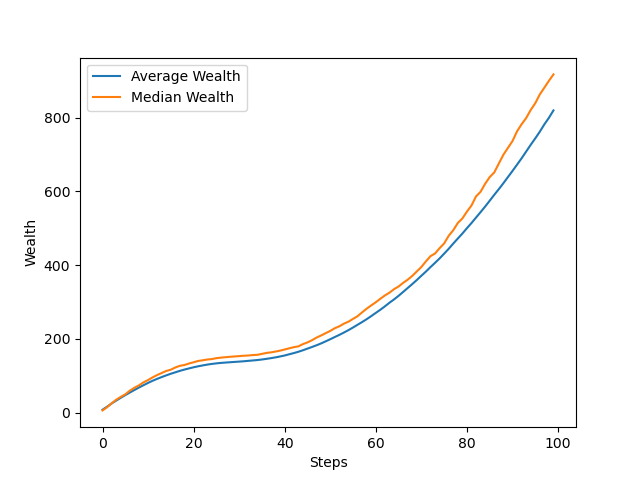
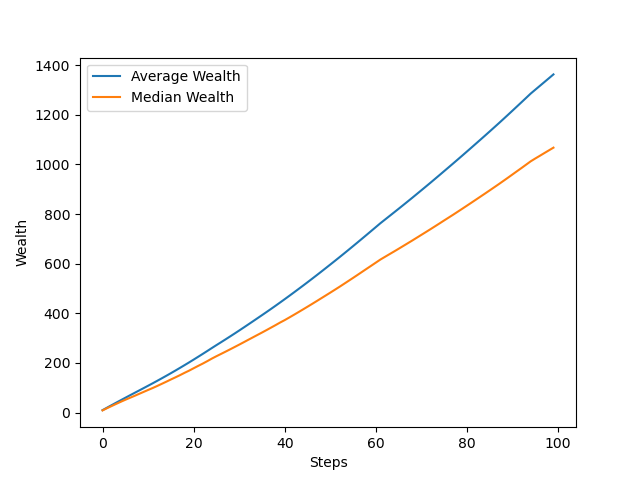
4つのグラフをプロットし，BIのありなしでいろいろな要素を比較できるようにしました．

diff --git a/MAS_K.py b/MAS_K.py
@@ -4,6 +4,7 @@ from mesa import Agent, Model
 from mesa.time import RandomActivation
 from mesa.datacollection import DataCollector
 import matplotlib.pyplot as plt
+import pandas as pd
 
 class Worker:
     def __init__(self, production_capacity, firm):
@@ -19,9 +20,9 @@ class HouseholdAgent(Agent):
         
         self.total_population = random.randint(1, 5)  # 1から5人の世帯人数
         
-        self.num_of_workers = random.randint(0, min(2 , self.total_population))  # 労働者の人数
+        self.num_of_workers = random.randint(1, min(2 , self.total_population))  # 労働者の人数
         if self.total_population - self.num_of_workers > 0:
-            self.num_of_non_workers = random.randint(0, self.total_population - self.num_of_workers)  # 非労働者の人数
+            self.num_of_non_workers = random.randint(0, self.total_population - self.num_of_workers)  # 非労働者の人数．ここでは子ども
         else:
             self.num_of_non_workers = 0
         self.num_of_retirees = self.total_population - self.num_of_workers - self.num_of_non_workers  # 残りは年金受給者
@@ -53,8 +54,13 @@ class HouseholdAgent(Agent):
 
     def should_consider_job_change(self, worker):
         # 自身の生産能力が3以上であれば、20%の確率で転職を考慮
-        if worker.production_capacity >= 3 and random.random() <= 0.2:
+        if worker.production_capacity == 5 and random.random() <= 0.3:
             return True
+        if worker.production_capacity == 4 and random.random() <= 0.1:
+            return True
+        if worker.production_capacity == 3 and random.random() <= 0.05:
+            return True
+        
         else:
             return False
 
@@ -70,6 +76,7 @@ class HouseholdAgent(Agent):
         for worker in self.workers:
             if worker.employed:  # 労働者が現在雇用されている場合
                 if self.should_consider_job_change(worker):
+                    # print(worker.production_capacity)
                     new_firm = self.find_higher_paying_job(worker)
                     if new_firm is not None and new_firm != worker.firm:
                         worker.firm.fire(worker)  # 以前の雇用者から離職
@@ -83,26 +90,56 @@ class HouseholdAgent(Agent):
                     if new_firm is not None:
                         worker.firm = new_firm  # 新しい雇用者に就職
                         worker.employed = True  # 雇用状態を更新
-                        
+    
+    def calculate_wage_tax(self, wage):
+        if wage < 10:
+            tax_rate = 0.1
+        elif wage < 30:
+            tax_rate = 0.2
+        elif wage < 50:
+            tax_rate = 0.3
+        elif wage < 70:
+            tax_rate = 0.4
+        elif wage < 90:
+            tax_rate = 0.5
+        else:
+            tax_rate = 0.6
+        return wage * tax_rate 
+
+    def calculate_disposable_income(self): #可処分所得=合計賃金-税金
+        income_from_wages = 0
+        total_wage_tax = 0
+        for worker in self.workers:
+            if worker.firm is not None:
+                wage = worker.firm.wage
+                wage_tax = self.calculate_wage_tax(wage)
+                income_from_wages += (wage - wage_tax)
+                total_wage_tax += wage_tax
+        self.disposable_income = income_from_wages
+        # 税金を政府に納付
+        self.model.government.collect_wage_tax(total_wage_tax)
+        
+
 
                     
     # 収入の計算：労働者が働いている企業からの賃金、年金、政府からの社会保障の合計
     def calculate_income(self):
         # 働いている労働者からの賃金の合計
-        income_from_wages = sum(worker.firm.wage for worker in self.workers if worker.firm is not None)
+        # income_from_wages = sum(worker.firm.wage for worker in self.workers if worker.firm is not None)
         income_from_pensions = self.model.government.pensions(self.num_of_retirees) # 年金受給者からの年金
         income_from_child_allowance = self.model.government.child_allowance(self.num_of_non_workers)  # 児童手当
         income_from_unemployment_allowance = self.model.government.unemployment_allowance(sum(1 for worker in self.workers if worker.firm is None))  # 失業手当
         income_from_BI = self.model.government.BI(self.total_population)  # BI
         
-        self.income = income_from_wages + income_from_pensions + income_from_child_allowance + income_from_unemployment_allowance + income_from_BI  # 合計収入
+        self.income = self.disposable_income + income_from_pensions + income_from_child_allowance + income_from_unemployment_allowance + income_from_BI  # 合計収入
     
     def step(self):
         self.consider_job_change()
+        self.calculate_disposable_income()
         self.calculate_income()
-        self.disposable_income = self.income - self.model.government.collect_taxes_house(self.income) #可処分所得=収入-税金
-        self.consumption = self.disposable_income * random.uniform(0, 0.8)  # 可処分所得は80%以下を消費
-        self.savings += self.disposable_income - self.consumption
+        # self.disposable_income = self.income - self.model.government.collect_taxes_house(self.income) #可処分所得=収入-税金
+        self.consumption = self.income * 0.7 #random.uniform(0.3, 0.8)  # 収入は80%以下を消費
+        self.savings += self.income - self.consumption
         # self.savings += self.model.bank.deposit(self.savings)
         # print(self.savings)
 
@@ -121,7 +158,7 @@ class FirmAgent(Agent):
         self.profit = 0  # 利益
         self.deficit_period = 0  # 連続赤字期間
         self.hire_workers = []  # 雇用中の労働者リスト
-        self.wage = 30  # 初期賃金
+        self.wage = random.randint(20, 50) # 初期賃金
         self.debt = 0 #借金
         calculate_capacity = 0 #会社の生産能力
         self.job_openings = 0  # 追加：求人公開数：ここでは不足している生産能力
@@ -178,7 +215,10 @@ class FirmAgent(Agent):
     def set_wage(self):
         # 賃金を企業の利益に応じて調整する
         if self.profit > 0 and self.capital > 0 :
-            self.wage += 1
+            if random.random() <= 0.5:
+                self.wage += 1
+            
+            
         else:
             self.wage -= 1 if self.wage > 1 else 0  # 賃金は1以上
 
@@ -225,14 +265,15 @@ class FirmAgent(Agent):
 
         self.sales -= self.model.government.collect_taxes_firm(self.sales)  # 税金を納める
 
-        # 連続赤字期間をカウント
+        # # 連続赤字期間をカウント
         if self.debt > 0:
             self.deficit_period += 1
             if self.deficit_period >= 12:  # 連続赤字が12期以上続いたら倒産
                 self.bankruptcy()
         else:
             self.deficit_period = 0  # 利益が出たら連続赤字期間をリセット
- #       print(f"Firm {self.unique_id} has {len(self.hire_workers)} workers.")
+        # print(f"Firm {self.unique_id} has {len(self.hire_workers)} workers.")
+        #print(f"Firm {self.unique_id} has { self.sales} profit.")
 
 
 
@@ -243,9 +284,9 @@ class GovernmentAgent(Agent):
         self.pension_amount = 0 # 年金
         self.child_allowance_amount = 0  # 児童手当
         self.unemployment_allowance_amount = 0 # 失業手当
-        self.BI_amount = 0 # BI
+        self.BI_amount = 8 # BI
         self.total_amount = 0 #政府の税金での収入と支出．とりあえずマイナスでもいい．
-        self.tax_rate_house = 0.4 #家庭への税率
+        # self.tax_rate_house = 0.4 #家庭への税率
         self.tax_rate_firm = 0.4 #企業への税率
        
 
@@ -270,10 +311,13 @@ class GovernmentAgent(Agent):
         self.total_amount -= self.BI_amount * total_population
         return self.BI_amount * total_population
 
-    def collect_taxes_house(self, income):
-        self.total_amount += self.tax_rate_house * income
-        return self.tax_rate_house * income
-    
+    # def collect_taxes_house(self, income):
+    #     self.total_amount += self.tax_rate_house * income
+    #     return self.tax_rate_house * income
+    # 新しいメソッドを追加：賃金に対する税金を収集
+    def collect_wage_tax(self, total_wage_tax):
+        self.total_amount += total_wage_tax
+
     def collect_taxes_firm(self, sales):
         self.total_amount += self.tax_rate_firm * sales
         return self.tax_rate_firm * sales
@@ -321,18 +365,26 @@ class EconomyModel(Model):
 
         self.total_capacity = 0
         self.total_consumption = 0
-
-        self.datacollector = DataCollector(
+        self.datacollector1 = DataCollector(
             model_reporters={
                 'Average Household Wealth': compute_average_wealth,
                 'Median Household Wealth': compute_median_wealth,
-                'Average Household income': compute_average_income,
-                'Median Household income': compute_median_income
+                'Average Household disposable_income': compute_average_disposable_income,
+                'Median Household disposable_income': compute_median_disposable_income,
+                'Total Income': total_income
+                
             }
             # model_reporters={"Firm_{}".format(i): lambda m, i=i+self.num_households: len(m.schedule.agents[i].hire_workers) if isinstance(m.schedule.agents[i], FirmAgent) else 0 for i in range(num_firms)}
-            # model_reporters={
+            
+            
 
-            # }
+        )
+
+        self.datacollector2 = DataCollector(
+          
+            agent_reporters={
+                "production_capacity_wages": lambda a: [(worker.production_capacity, worker.firm.wage) for worker in a.workers if worker.firm is not None] if isinstance(a, HouseholdAgent) else None
+            }
 
         )
 
@@ -356,7 +408,8 @@ class EconomyModel(Model):
         self.total_capacity = sum([agent.calculate_total_capacity() for agent in self.schedule.agents if isinstance(agent, FirmAgent)])
         self.total_consumption = sum([agent.consumption for agent in self.schedule.agents if isinstance(agent, HouseholdAgent)])
         self.schedule.step()
-        self.datacollector.collect(self)
+        self.datacollector1.collect(self)
+        self.datacollector2.collect(self)
         
 
     
@@ -372,48 +425,116 @@ def compute_median_wealth(model):
     return statistics.median(wealths) if wealths else 0
 
 # 収入の平均値を計算する関数
-def compute_average_income(model):
-    wealths = [agent.income for agent in model.schedule.agents if isinstance(agent, HouseholdAgent)]
-    return statistics.mean(wealths) if wealths else 0
+def compute_average_disposable_income(model):
+    disposable_incomes = [agent.disposable_income for agent in model.schedule.agents if isinstance(agent, HouseholdAgent)]
+    return statistics.mean(disposable_incomes) if disposable_incomes else 0
 
 # 収入の中央値を計算する関数
-def compute_median_income(model):
-    wealths = [agent.income for agent in model.schedule.agents if isinstance(agent, HouseholdAgent)]
-    return statistics.median(wealths) if wealths else 0
+def compute_median_disposable_income(model):
+    disposable_incomes = [agent.disposable_income for agent in model.schedule.agents if isinstance(agent, HouseholdAgent)]
+    return statistics.median(disposable_incomes) if disposable_incomes else 0
+
+# 家計の総収入
+def total_income(model):
+    incomes = [agent.disposable_income for agent in model.schedule.agents if isinstance(agent, HouseholdAgent)]
+    return sum(incomes) if incomes else 0
 
 # 企業ごとの従業員の人数を計算する関数
 def compute_firm_worker(model):
     workers = []
 
+def production_capacity_average_wage(model, i):
+    wages = []
+
 
 # メインの実行部分
-num_households = 300
-num_firms = 10
+num_households = 1000
+num_firms = 50
 num_steps = 100
+num_simulations = 100  # シミュレーションの回数
+
+# 以下の変数で複数回のシミュレーション結果を一時的に保存
+all_average_wealths = []
+all_median_wealths = []
+all_average_disposable_incomes = []
+all_median_disposable_incomes = []
+all_total_incomes = []
+all_average_wages_by_capacity = []
 
 model = EconomyModel(num_households, num_firms)
 
 for _ in range(num_steps):
     model.step()
 
-data = model.datacollector.get_model_vars_dataframe()
+data = model.datacollector1.get_model_vars_dataframe()
 plt.figure()   #新しいウィンドウを描画
 plt.plot(data.index, data['Average Household Wealth'], label='Average Wealth')
 plt.plot(data.index, data['Median Household Wealth'], label='Median Wealth')
 plt.xlabel('Steps')
 plt.ylabel('Wealth')
 plt.legend()
-plt.savefig("1_1.png")
+plt.savefig("2_1.png")
 plt.figure()   #新しいウィンドウを描画
-plt.plot(data.index, data['Average Household income'], label='Average income')
-plt.plot(data.index, data['Median Household income'], label='Median income')
+plt.plot(data.index, data['Average Household disposable_income'], label='Average disposable_income')
+plt.plot(data.index, data['Median Household disposable_income'], label='Median disposable_income')
 plt.xlabel('Steps')
-plt.ylabel('Wealth')
+plt.ylabel('disposable_income')
 plt.legend()
-plt.savefig("1_2.png")
-plt.show()
+plt.savefig("2_2.png")
+# plt.show()
 # data.plot()
 # plt.title('Number of Employees per Firm Over Time')
 # plt.ylabel('Number of Employees')
 # plt.xlabel('Steps')
 # plt.show()
+# シミュレーションが終了した後
+agent_data = model.datacollector2.get_agent_vars_dataframe().reset_index()
+
+# production_capacityごとに賃金（wage）の平均を計算
+average_wages_by_capacity = {}
+for step, group_data in agent_data.groupby("Step"):
+    all_wages_by_capacity = {}
+    for capacity_wages in group_data["production_capacity_wages"]:
+        if capacity_wages is None:
+            continue  # Noneの場合はスキップ
+        for capacity, wage in capacity_wages:
+            if capacity not in all_wages_by_capacity:
+                all_wages_by_capacity[capacity] = []
+            all_wages_by_capacity[capacity].append(wage)
+
+    average_wages_by_capacity[step] = {capacity: statistics.mean(wages) for capacity, wages in all_wages_by_capacity.items()}
+plt.figure()   #新しいウィンドウを描画
+# 平均賃金をプロット
+for capacity in range(1, 6):  # 1から5までのproduction_capacityについて
+    plt.plot(
+        list(average_wages_by_capacity.keys()),
+        [step_data.get(capacity, None) for step_data in average_wages_by_capacity.values()],
+        label=f"Capacity {capacity}"
+    )
+plt.xlabel('Steps')
+plt.ylabel('wage')
+plt.legend()
+plt.savefig("2_3.png")
+
+total_incomes = data['Total Income']  # 総収入のデータを取得
+plt.figure()  # 新しいウィンドウを描画
+for capacity in range(1, 6):  # 1から5までのproduction_capacityについて
+    normalized_wages = []
+    for step, step_total_income in enumerate(total_incomes):
+        average_wage_for_capacity = average_wages_by_capacity.get(step, {}).get(capacity, None)
+        if average_wage_for_capacity is None or step_total_income == 0:
+            normalized_wages.append(None)
+        else:
+            normalized_wages.append(average_wage_for_capacity / step_total_income)
+
+    plt.plot(
+        list(average_wages_by_capacity.keys()),
+        normalized_wages,
+        label=f"Capacity {capacity}"
+    )
+
+plt.xlabel('Steps')
+plt.ylabel('Normalized Wage')
+plt.legend()
+plt.savefig("2_4.png")
+plt.show()
